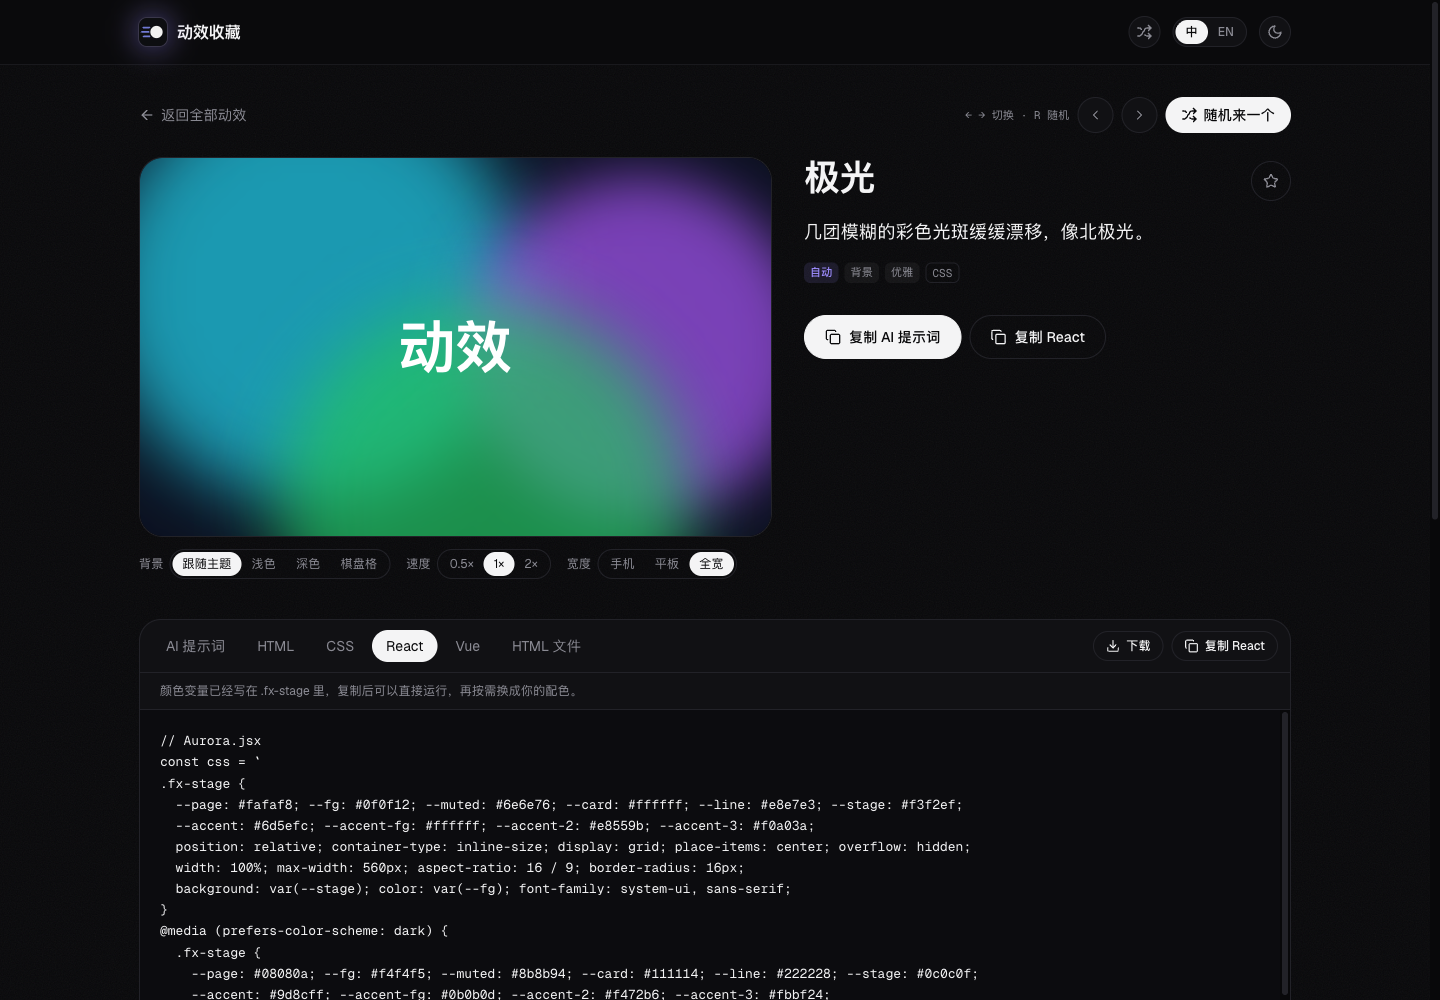
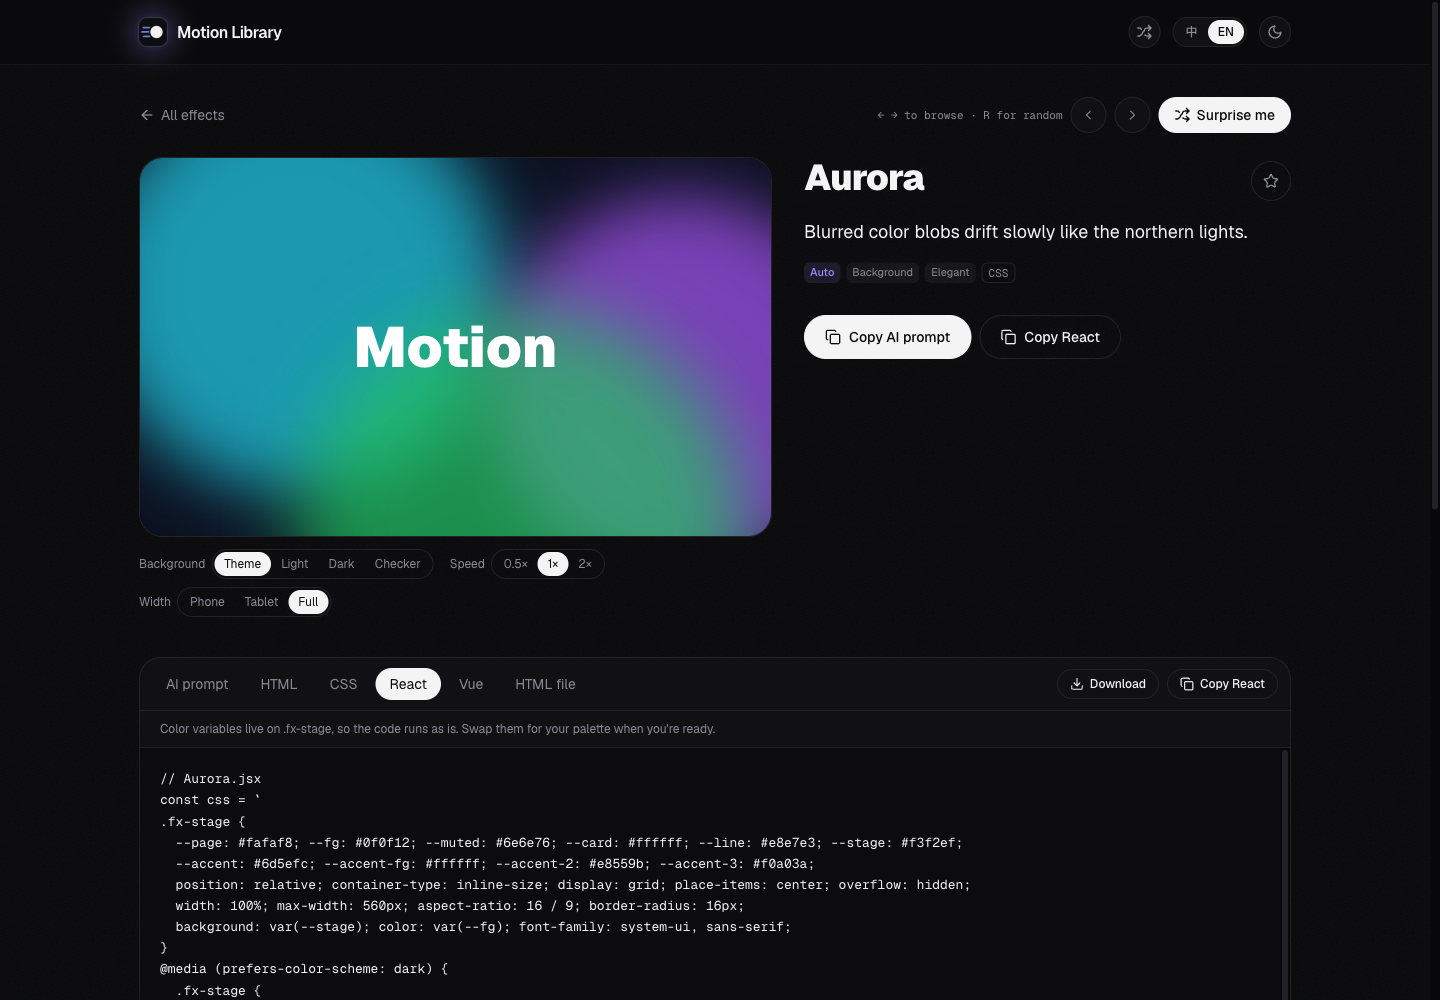
Use English interface screenshots in README

diff --git a/README.md b/README.md
@@ -6,7 +6,7 @@ Built with Next.js, React, TypeScript and Tailwind CSS. The interface is availab
 
 ## Preview
 
-**Dark mode · Simplified Chinese**
+**Dark mode · English**
 
 ![Motion Library home page in dark mode](docs/images/overview-dark.png)
 
